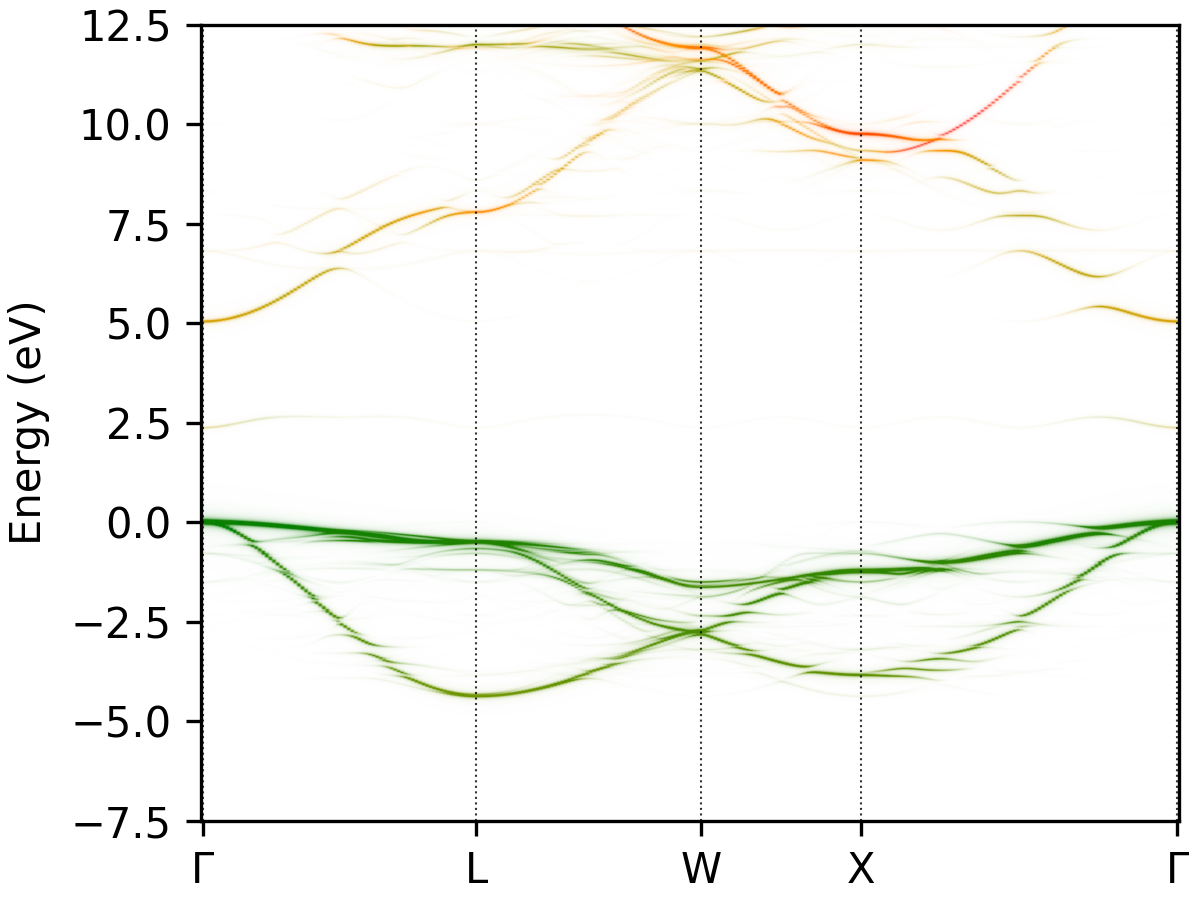
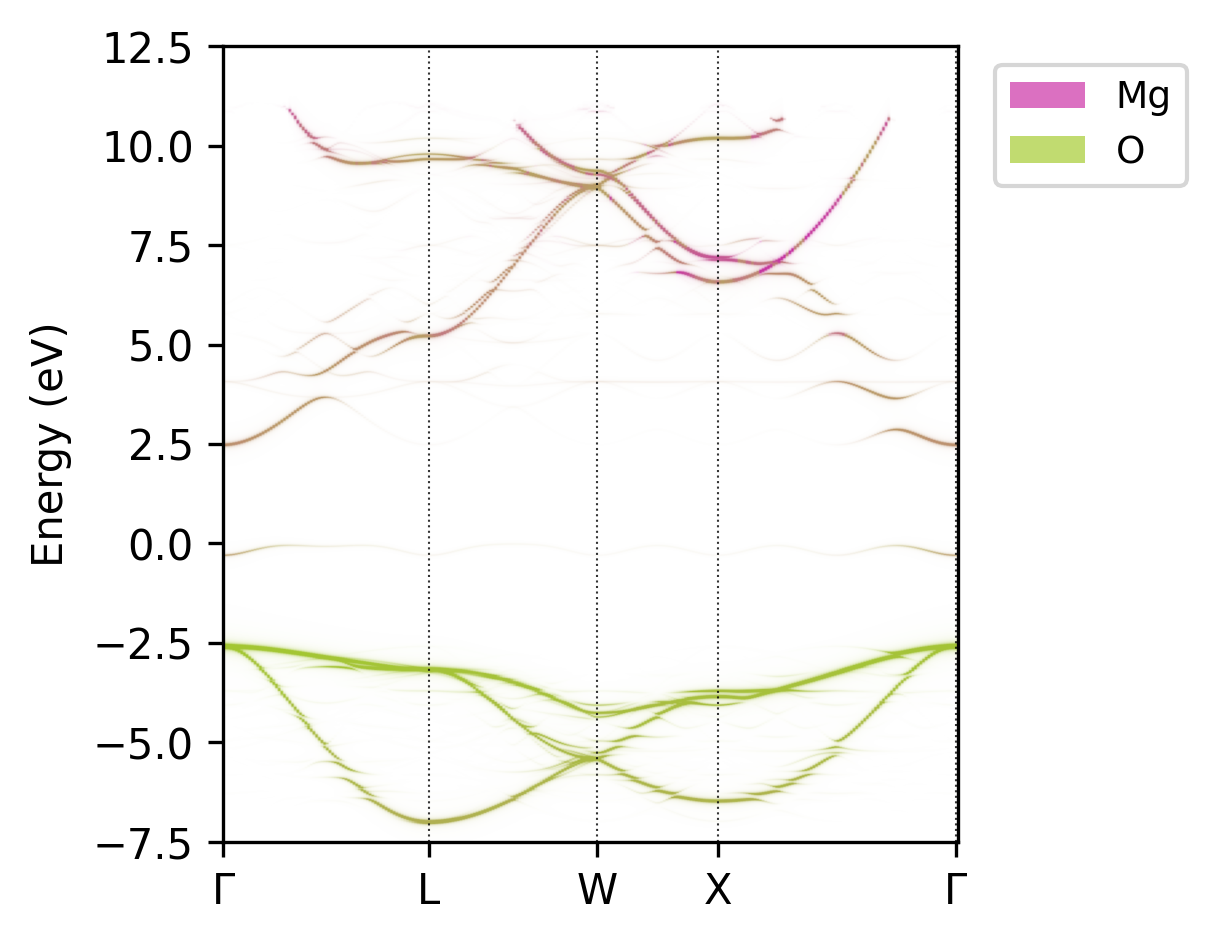
Updated paper and figures

Changed region(s): [[0.0617, 0.0, 0.9867, 0.9956], [0.0, 0.3422, 0.0617, 0.6222], [0.8633, 0.28, 0.925, 0.3111]]

diff --git a/paper/paper.md b/paper/paper.md
@@ -52,8 +52,8 @@ With `easyunfold`, we provide a simple, easy to use, yet powerful and flexible t
 There are existing packages that provide band structure unfolding capabilities, such as `BandUp`
 [@bandup], and `VaspBandUnfolding` [@vaspbandunfolding].
 `easyunfold` is written in Python with a focus of easy-to-use, data provenance, reproducibility, and generating publication-quality figures.
-An example output of the effective band structure produced is shown in Figure \autoref{fig:figure2} for a $2\times2\times2$ $\mathrm{MgO}$ supercell containing a charged oxygen vacancy.
-\autoref{fig:figure3} shows the effective band structure of an disordered $\mathrm{NaBiS_2}$ structure, which each projected atomic channel plotted separately.
+An example output of the effective band structure produced is shown in Figure \autoref{fig:figure2} for a $2\times2\times2$ $\mathrm{MgO}$ supercell containing a neutral oxygen vacancy.
+\autoref{fig:figure3} shows the effective band structure of a disordered $\mathrm{NaBiS_2}$ structure, which each projected atomic channel plotted separately.
 A key feature of `easyunfold` is to provide data serialization complying the FAIR principle [@wilkinson:2016].
 Both the input settings and calculated outputs are stored in a single JSON file.
 This enables the unfolded band structure to be re-plotted and further analysed without reprocessing the wave function data, which can be time-consuming and require large storage space.
@@ -79,7 +79,7 @@ as well as disordering/defect modelling codes such as `icet` [@icet] and `doped`
 The combination of easy-of-use, flexibility, and efficiency will improve the accessibility of
 band structure unfolding for materials modelling and help train new researchers.
 
-![Projected effective band structure of a $2\times2\times2$ MgO supercell showing an localised defect state (2.5 eV from the VBM) resulting from a $\mathrm{2^+}$ charged oxygen vacancy. Red: O, Green: Mg \label{fig:figure2}](mgo_unfold_project.png){width=80mm}
+![Projected effective band structure of a $2\times2\times2$ MgO supercell showing an localised mid-gap state resulting from a neutral oxygen vacancy (using a relatively small supercell containing 63 atoms). \label{fig:figure2}](mgo_unfold_project.png){width=130mm}
 
 ![Projected effective band structure of a $\mathrm{Cs_2(Sn,Ti)Br_6}$ vacancy-ordered perovskite alloy \label{fig:figure3}](Cs2SnTiBr6.png){width=130mm}
 
